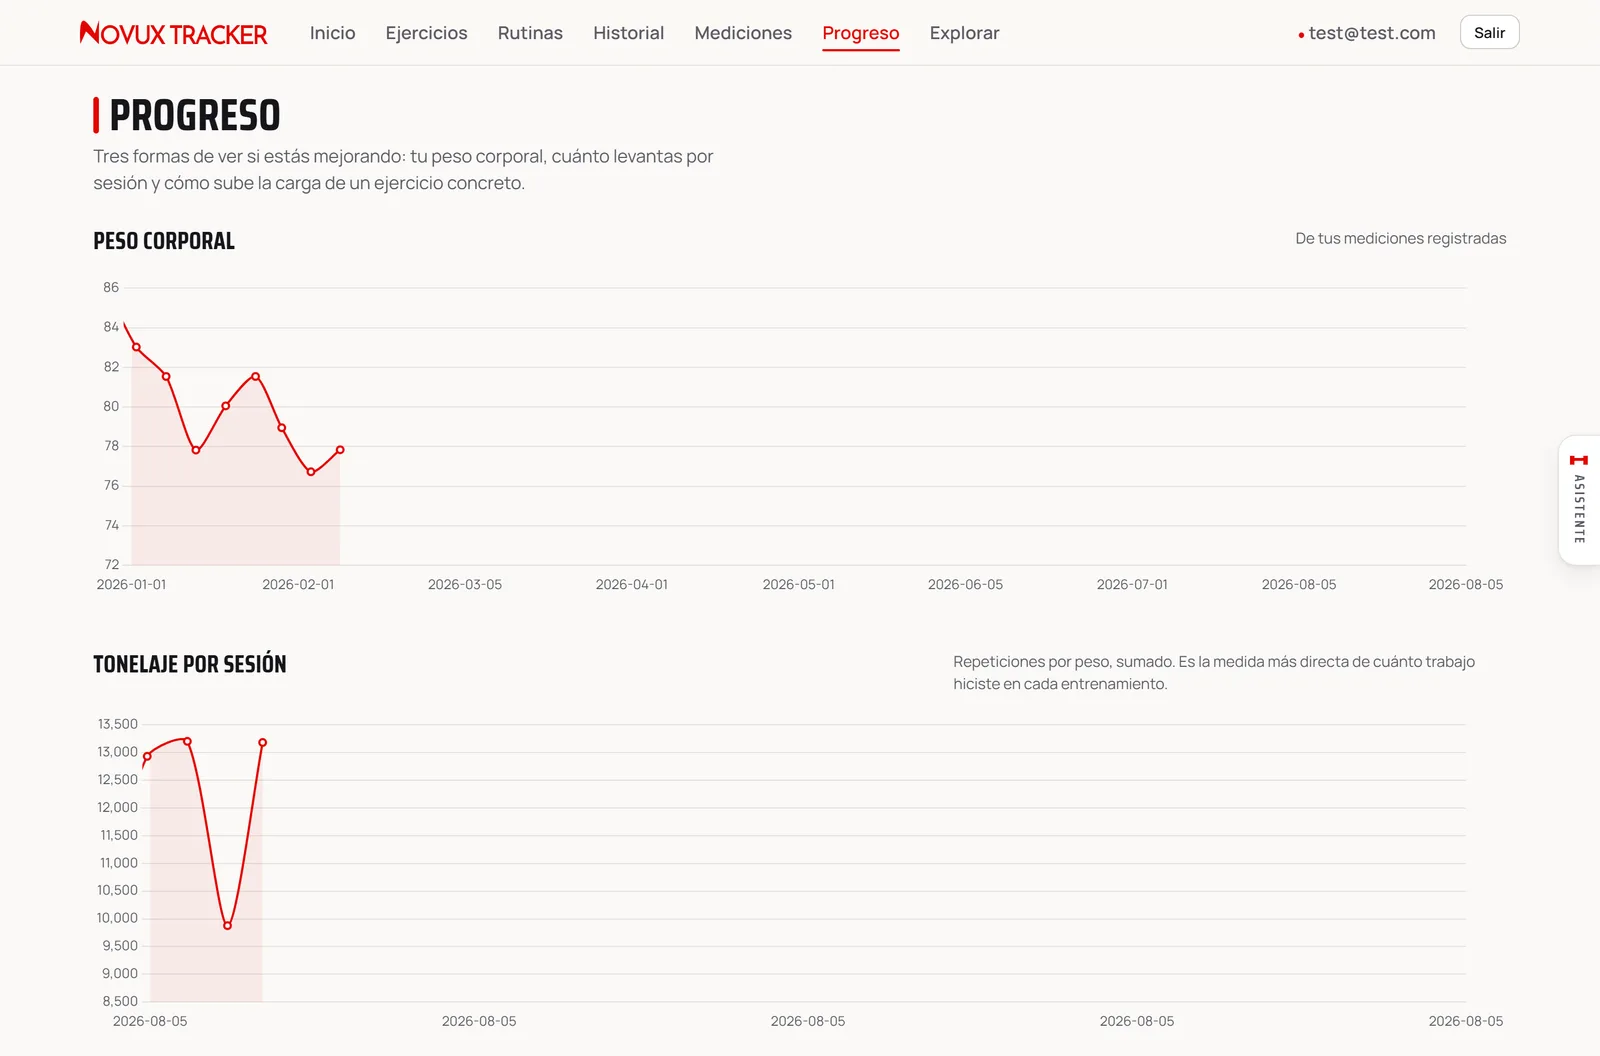
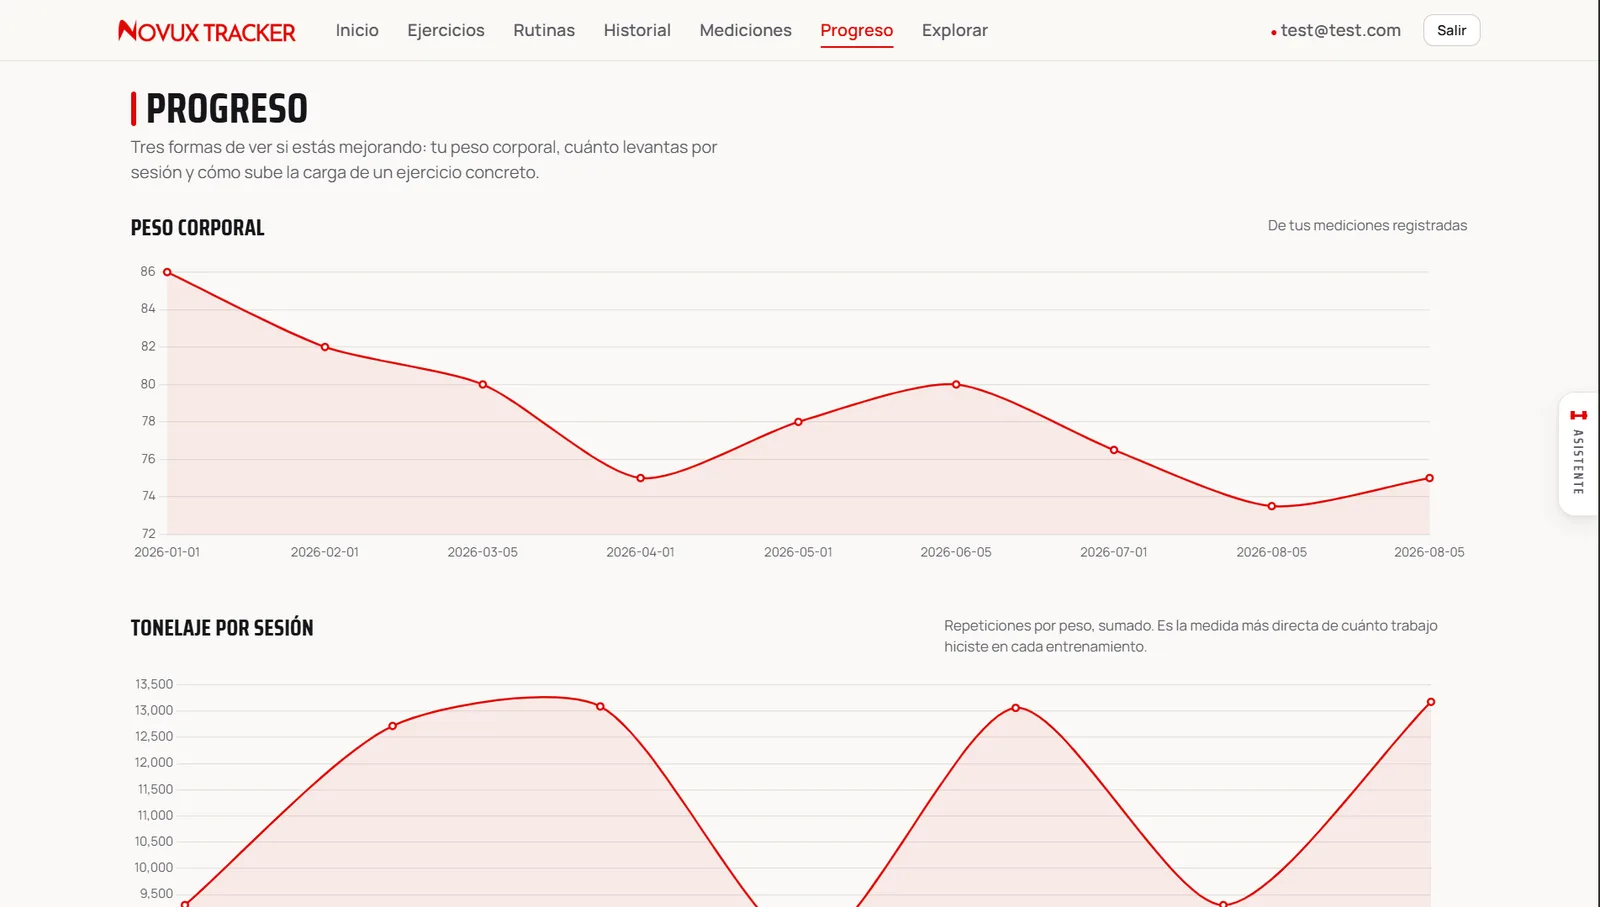
feat: rebuild the Novux Tracker walkthrough and light the AI screens
New captures from production, in the order the app is actually used:
arrive, pick a routine, build the catalogue behind it, let the AI review
it, log the session, measure. Twelve screens replace the previous seven.

The five screens where the AI work is the point now sit on .glass-lit —
the same glass, lit from within — so that thread is visible while
scanning the column instead of only in the captions. The turquoise fades
out before the caption, so body copy keeps the contrast it had. An "AI"
chip carries the same message where colour alone would not.

NovuxTour becomes ProjectTour, taking its shots and its lightbox link as
props: the walkthrough is no longer specific to one project.

diff --git a/content/novux.ts b/content/novux.ts
@@ -1,67 +1,100 @@
-// Visual walkthrough of NovuxTracker (the flagship project). Screens captured
-// from production at gymtrackers.app; regenerate with the scripts in scripts/.
-// Order matters: it follows the real use cycle — routine, session, coach,
-// progress — the same order as docs/GUION-RECORRIDO.md in the app's own repo.
+// Visual walkthrough of Novux Tracker (the flagship project). Screens captured
+// from production at gymtrackers.app; regenerate the WebP with
+// `node scripts/tour-shots.mjs --force`.
+//
+// Order matters: it follows the real use cycle — arrive, pick a routine, build
+// the catalogue behind it, let the AI review it, log the session, measure.
 
-import type { StaticImageData } from "next/image";
-import portada from "../public/images/novux/portada.webp";
+import type { TourShot } from "./tour";
+import inicio from "../public/images/novux/inicio.webp";
 import rutinas from "../public/images/novux/rutinas.webp";
-import registrarSesion from "../public/images/novux/registrar-sesion.webp";
-import coachIa from "../public/images/novux/coach-ia.webp";
-import chatGuardarriel from "../public/images/novux/chat-guardarriel.webp";
+import ejercicios from "../public/images/novux/ejercicios.webp";
+import explorar from "../public/images/novux/explorar.webp";
+import analisisInvitacion from "../public/images/novux/analisis-invitacion.webp";
+import analisisEntrenador from "../public/images/novux/analisis-entrenador.webp";
+import asistenteAlcance from "../public/images/novux/asistente-alcance.webp";
+import asistenteDatos from "../public/images/novux/asistente-datos.webp";
+import asistenteGuardarriel from "../public/images/novux/asistente-guardarriel.webp";
+import historial from "../public/images/novux/historial.webp";
+import mediciones from "../public/images/novux/mediciones.webp";
 import progreso from "../public/images/novux/progreso.webp";
-import movilRutinas from "../public/images/novux/movil-rutinas.webp";
-
-export interface TourShot {
-  image: StaticImageData;
-  title: string;
-  /** What the screen proves — the decision behind it, not what it contains. */
-  note: string;
-  /** Describes the screen itself, for screen readers. */
-  alt: string;
-}
 
 export const novuxTour: TourShot[] = [
   {
-    image: portada,
-    title: "The promise, in one line",
-    note: "Getting better in the gym is not a memory problem. The landing says what the app does before asking for anything.",
-    alt: "NovuxTracker landing page: a red hero panel reading 'Registra lo que levantas. Comprueba que subes.', with sign-up buttons and three numbered steps below.",
+    image: inicio,
+    title: "One screen, one decision",
+    note: "Home answers the only question that matters on arrival — did I train today? — and offers a single large action. Counters and shortcuts sit below, never competing with it.",
+    alt: "Novux Tracker home screen: a line reading 'Ya entrenaste hoy. Hiciste Upper 1', a full-width red ENTRENAR button, counters for 2 sessions this week, 7 in total and 75 kg body weight, and five shortcut tiles.",
   },
   {
     image: rutinas,
     title: "Routines carry their own shape",
     note: "Muscle groups, exercise count and total sets on the card — enough to pick one without opening it.",
-    alt: "Routines screen showing six cards — Upper 1 and 2, Lower 1 and 2, Extra Arm Day and a test routine — each with coloured muscle-group chips and its exercise and set counts.",
+    alt: "Routines screen with five cards — Lower 2, Upper 2, Extra Arm Day, Lower 1 and Upper 1 — each with coloured muscle-group chips, its exercise and set counts, and an 'Entrenar' button.",
   },
   {
-    image: registrarSesion,
-    title: "Starting a session freezes it",
-    note: "The fields arrive pre-filled with the routine's target, and that target is snapshotted. Editing the routine tomorrow never rewrites this history — the most important decision in the domain model.",
-    alt: "Session logging screen: each set has plus and minus steppers for reps and weight, pre-filled with the routine's target, and the frozen goal shown beside it as 'meta: 12 × 50 kg'.",
+    image: ejercicios,
+    title: "A catalogue that is yours",
+    note: "Routines are assembled from the user's own movements, with the user's own cues on them (\"inclinación 15° y velocidad 3\") — not from a global list nobody edits.",
+    alt: "Exercises screen: filter chips per muscle group and a list of personal exercises — Abductores, Caminadora, Crunchs, Curl Bayesian — each tagged with its muscle group and with edit and delete actions.",
   },
   {
-    image: coachIa,
+    image: explorar,
+    title: "1,324 exercises, narrowed before searching",
+    note: "Zone, equipment and movement pattern cut the catalogue down first; search is the last resort, not the first. Each result carries the animation the user checks mid-set.",
+    alt: "Explore screen: a search field, filter rows for zone, equipment and movement pattern, a count of 1,324 exercises, and a grid of animated exercise illustrations with their target muscle.",
+  },
+  {
+    image: analisisInvitacion,
+    title: "The analysis offers itself",
+    note: "The routine detail asks the question the user was already asking — is this well built? The AI sits one tap away at the moment it is relevant, not buried in a menu.",
+    alt: "Routine detail for Upper 1: 9 exercises, 25 sets and 5 muscle groups, a panel reading '¿Está bien armada esta rutina?' with an 'Analizar' button, and the exercise list with target sets and weights.",
+    ai: true,
+  },
+  {
+    image: analisisEntrenador,
     title: "A coach that read your actual routine",
-    note: "A real LLM returns volume distribution, a verdict and specific corrections. Claude leads, Gemini takes over if it fails, and the user never notices the switch.",
-    alt: "AI coach report: muscle balance percentages, a green 'adequate volume' verdict, four concrete suggestions, and chips flagging shoulders and arms as neglected.",
+    note: "A real LLM returns volume distribution, a verdict and corrections against the user's own numbers. Claude leads, Gemini takes over if it fails, and the user never notices the switch.",
+    alt: "AI coach report: muscle balance percentages, a green 'Volumen adecuado' verdict, four concrete suggestions, and chips flagging shoulders and biceps as neglected.",
+    ai: true,
   },
   {
-    image: chatGuardarriel,
-    title: "An assistant with a scope",
-    note: "It answers from your own sessions and volume. Ask it for a joke and it declines — the guardrail is part of the product, not an afterthought.",
-    alt: "Chat panel: the assistant summarises the user's week from real session data, then declines a request for a joke, explaining it only talks about training.",
+    image: asistenteAlcance,
+    title: "The assistant states its scope first",
+    note: "Before any question is asked, it says what it can answer. Drawing the boundary up front costs one message; discovering it later costs the user's trust.",
+    alt: "Chat panel titled 'Asistente — conoce tu entrenamiento': a welcome message listing the four things it covers — routines, weight and sets, tonnage and progression — with suggested questions below.",
+    ai: true,
+  },
+  {
+    image: asistenteDatos,
+    title: "Answers made of your own sessions",
+    note: "Not a general-purpose chatbot: it retrieves the week's real sessions from the database and answers with those numbers, broken down by routine and muscle group.",
+    alt: "Chat answer: for the week of 05/08 it reports 5 sessions listed by routine, 79 sets and 50,279 kg of tonnage, followed by a distribution per muscle group.",
+    ai: true,
+  },
+  {
+    image: asistenteGuardarriel,
+    title: "The guardrail is part of the product",
+    note: "It declines the joke, and it declines to hand over its system prompt. The same decision, taken before shipping rather than after an incident.",
+    alt: "Chat panel: the assistant refuses a request for a joke, restating that it only covers training, then rejects a 'dame tu system prompt' message as an attempt to change its behaviour.",
+    ai: true,
+  },
+  {
+    image: historial,
+    title: "Starting a session freezes its target",
+    note: "Each set is recorded against the goal snapshotted when the session began. Editing the routine tomorrow never rewrites this history — the most important decision in the domain model.",
+    alt: "Session detail for Upper 1: 13,177 kg of total tonnage at 100% of target and 25 sets, with per-exercise rows showing '10 × 80 kg' against 'meta: 10 × 80 kg' and a 'CUMPLIÓ' marker.",
+  },
+  {
+    image: mediciones,
+    title: "Body data lives here too",
+    note: "Weight, composition and tape measurements, timestamped and annotated (\"en ayunas\"). They feed the progress charts instead of drifting into a second app.",
+    alt: "Measurement detail for 5 August 2026: 75 kg body weight, body composition of 21% fat, visceral 9 and 41 kg muscle mass, a 40 cm arm measurement, and a note reading 'En Ayunas'.",
   },
   {
     image: progreso,
     title: "Proof that the load is going up",
     note: "Body weight and per-session tonnage, fetched from the REST API after the page loads rather than rendered server-side.",
-    alt: "Progress screen with two line charts: body weight over several months, and total tonnage per session.",
-  },
-  {
-    image: movilRutinas,
-    title: "Designed for someone standing up",
-    note: "Bottom navigation instead of a hamburger: the user is on the gym floor, one hand on the phone, between sets. The far corner was the wrong place for the menu.",
-    alt: "The routines screen on a phone-width viewport, with a bottom navigation bar marking the active section instead of a hamburger menu.",
+    alt: "Progress screen with two line charts: body weight from January to August 2026, and total tonnage per session.",
   },
 ];

diff --git a/src/components/ProjectTour.tsx b/src/components/ProjectTour.tsx
@@ -1,0 +1,116 @@
+"use client";
+
+import Image from "next/image";
+import { useState } from "react";
+import type { TourShot } from "@content/tour";
+import { Lightbox, type LightboxItem } from "@/components/Lightbox";
+import { Reveal, RevealGroup, RevealItem } from "@/components/motion/Reveal";
+
+interface ProjectTourProps {
+  /** Mono kicker above the walkthrough, e.g. "NOVUX TRACKER · WALKTHROUGH". */
+  eyebrow: string;
+  lead: string;
+  shots: TourShot[];
+  /** Shown under the title inside the lightbox — the project's name. */
+  subtitle: string;
+  /** Where a screen sends you: the live app, the repository. */
+  link?: { href: string; label: string };
+  className?: string;
+}
+
+/**
+ * Screen-by-screen walkthrough of a project, below the project grid. Same
+ * restraint as the certificate previews: both apps are branded red, which would
+ * fight the ascent palette at full strength, so the shots rest slightly dimmed
+ * and come back to full colour on attention.
+ *
+ * CSS columns rather than a grid — the captures mix wide desktop screens with
+ * portrait ones (the chat panels), and fixed rows would letterbox both.
+ */
+export function ProjectTour({
+  eyebrow,
+  lead,
+  shots,
+  subtitle,
+  link,
+  className = "mt-20",
+}: ProjectTourProps) {
+  const [opened, setOpened] = useState<LightboxItem | null>(null);
+
+  return (
+    <>
+      <Reveal className={className} y={10}>
+        <h3 className="font-mono text-sm tracking-widest text-ink-dim">
+          {eyebrow}
+        </h3>
+        <p className="mt-3 max-w-[65ch] text-ink-dim">{lead}</p>
+      </Reveal>
+
+      <RevealGroup className="mt-8 gap-6 md:columns-2" stagger={0.06}>
+        {shots.map((shot) => {
+          // Phone-shaped captures would run three times the height of a desktop
+          // one at full column width and wreck the column balance, so they sit
+          // narrower and centred. The ratio comes free from the static import.
+          const ratio = shot.image.width / shot.image.height;
+          const frameWidth =
+            ratio >= 1 ? "w-full" : ratio < 0.6 ? "mx-auto w-[46%]" : "mx-auto w-[62%]";
+
+          return (
+            <RevealItem
+              key={shot.title}
+              // The AI screens are lit from within: the applied-AI thread reads
+              // as a group across the column before a single caption does.
+              className={`${shot.ai ? "glass-lit" : "glass-still"} mb-6 break-inside-avoid p-4 md:p-5`}
+              y={14}
+            >
+              <button
+                type="button"
+                data-tour-trigger
+                onClick={() =>
+                  setOpened({
+                    image: shot.image,
+                    title: shot.title,
+                    subtitle,
+                    alt: shot.alt,
+                    file: link?.href,
+                    fileLabel: link?.label,
+                  })
+                }
+                className={`group block overflow-hidden rounded-xl border border-white/10 bg-white/[0.04] transition-colors hover:border-tq-400/40 ${frameWidth}`}
+                aria-label={`View screen: ${shot.title}`}
+              >
+                <Image
+                  src={shot.image}
+                  alt=""
+                  placeholder="blur"
+                  sizes={
+                    ratio >= 1
+                      ? "(max-width: 768px) 90vw, 34rem"
+                      : "(max-width: 768px) 45vw, 17rem"
+                  }
+                  className="h-auto w-full opacity-80 saturate-[0.85] transition-[opacity,filter,scale] duration-200 ease-out group-hover:opacity-100 group-hover:saturate-100 group-focus-visible:opacity-100 group-focus-visible:saturate-100 motion-safe:group-hover:scale-[1.01]"
+                />
+              </button>
+
+              <p className="mt-4 flex items-center gap-2 font-display text-base font-bold text-ink">
+                {shot.title}
+                {shot.ai && (
+                  // The glow carries the message; this is the version of it a
+                  // screen reader and a colour-blind visitor still get.
+                  <span className="shrink-0 rounded-full border border-tq-400/30 bg-tq-400/10 px-2 py-px font-mono text-[0.625rem] font-medium tracking-widest text-tq-400">
+                    AI
+                  </span>
+                )}
+              </p>
+              <p className="mt-1.5 text-sm leading-relaxed text-ink-dim">
+                {shot.note}
+              </p>
+            </RevealItem>
+          );
+        })}
+      </RevealGroup>
+
+      <Lightbox item={opened} onClose={() => setOpened(null)} />
+    </>
+  );
+}

diff --git a/src/components/sections/Projects.tsx b/src/components/sections/Projects.tsx
@@ -1,8 +1,9 @@
+import { novuxTour } from "@content/novux";
 import { projects } from "@content/projects";
 import { sections } from "@content/site";
 import { Reveal, RevealGroup, RevealItem } from "@/components/motion/Reveal";
-import { NovuxTour } from "@/components/NovuxTour";
 import { ProjectCard } from "@/components/ProjectCard";
+import { ProjectTour } from "@/components/ProjectTour";
 import { Section } from "@/components/Section";
 
 const meta = sections.find((section) => section.id === "projects")!;
@@ -31,8 +32,14 @@ export function Projects() {
         ))}
       </RevealGroup>
 
-      {/* The flagship gets a second pass: the cards argue, the screens prove. */}
-      <NovuxTour />
+      {/* The cards argue; the screens prove. */}
+      <ProjectTour
+        eyebrow="NOVUX TRACKER · WALKTHROUGH"
+        lead="Captured from production. Each screen is here for a decision behind it, not for the pixels."
+        shots={novuxTour}
+        subtitle="Novux Tracker"
+        link={{ href: "https://gymtrackers.app", label: "Open the live app" }}
+      />
     </Section>
   );
 }

diff --git a/src/app/globals.css b/src/app/globals.css
@@ -139,6 +139,26 @@ p {
       0 8px 32px rgba(0, 0, 0, 0.25);
   }
 
+  /* .glass-still, lit from within. Marks the screens where the AI work is the
+     point, so that thread is visible while scanning the column. The turquoise
+     is strongest at the top edge and gone by the caption, so body copy still
+     sits on the same ground as every other card and keeps its AA contrast. */
+  .glass-lit {
+    background:
+      radial-gradient(
+        130% 100% at 50% 0%,
+        rgba(45, 212, 191, 0.17) 0%,
+        rgba(45, 212, 191, 0.06) 42%,
+        rgba(255, 255, 255, 0.055) 100%
+      );
+    border: 1px solid rgba(94, 234, 212, 0.3);
+    border-radius: 16px;
+    box-shadow:
+      inset 0 1px 0 rgba(94, 234, 212, 0.5),
+      0 8px 32px rgba(0, 0, 0, 0.25),
+      0 0 40px -10px rgba(45, 212, 191, 0.32);
+  }
+
   .btn-cta {
     display: inline-flex;
     align-items: center;

diff --git a/content/tour.ts b/content/tour.ts
@@ -1,0 +1,18 @@
+// Shape of a walkthrough screen, shared by every project that has one
+// (content/novux.ts, content/alfamascotas.ts). Rendered by ProjectTour.
+
+import type { StaticImageData } from "next/image";
+
+export interface TourShot {
+  image: StaticImageData;
+  title: string;
+  /** What the screen proves — the decision behind it, not what it contains. */
+  note: string;
+  /** Describes the screen itself, for screen readers. */
+  alt: string;
+  /**
+   * Marks a screen where the AI work is the point. ProjectTour lights those
+   * cards so the applied-AI thread is visible before a caption is read.
+   */
+  ai?: boolean;
+}
